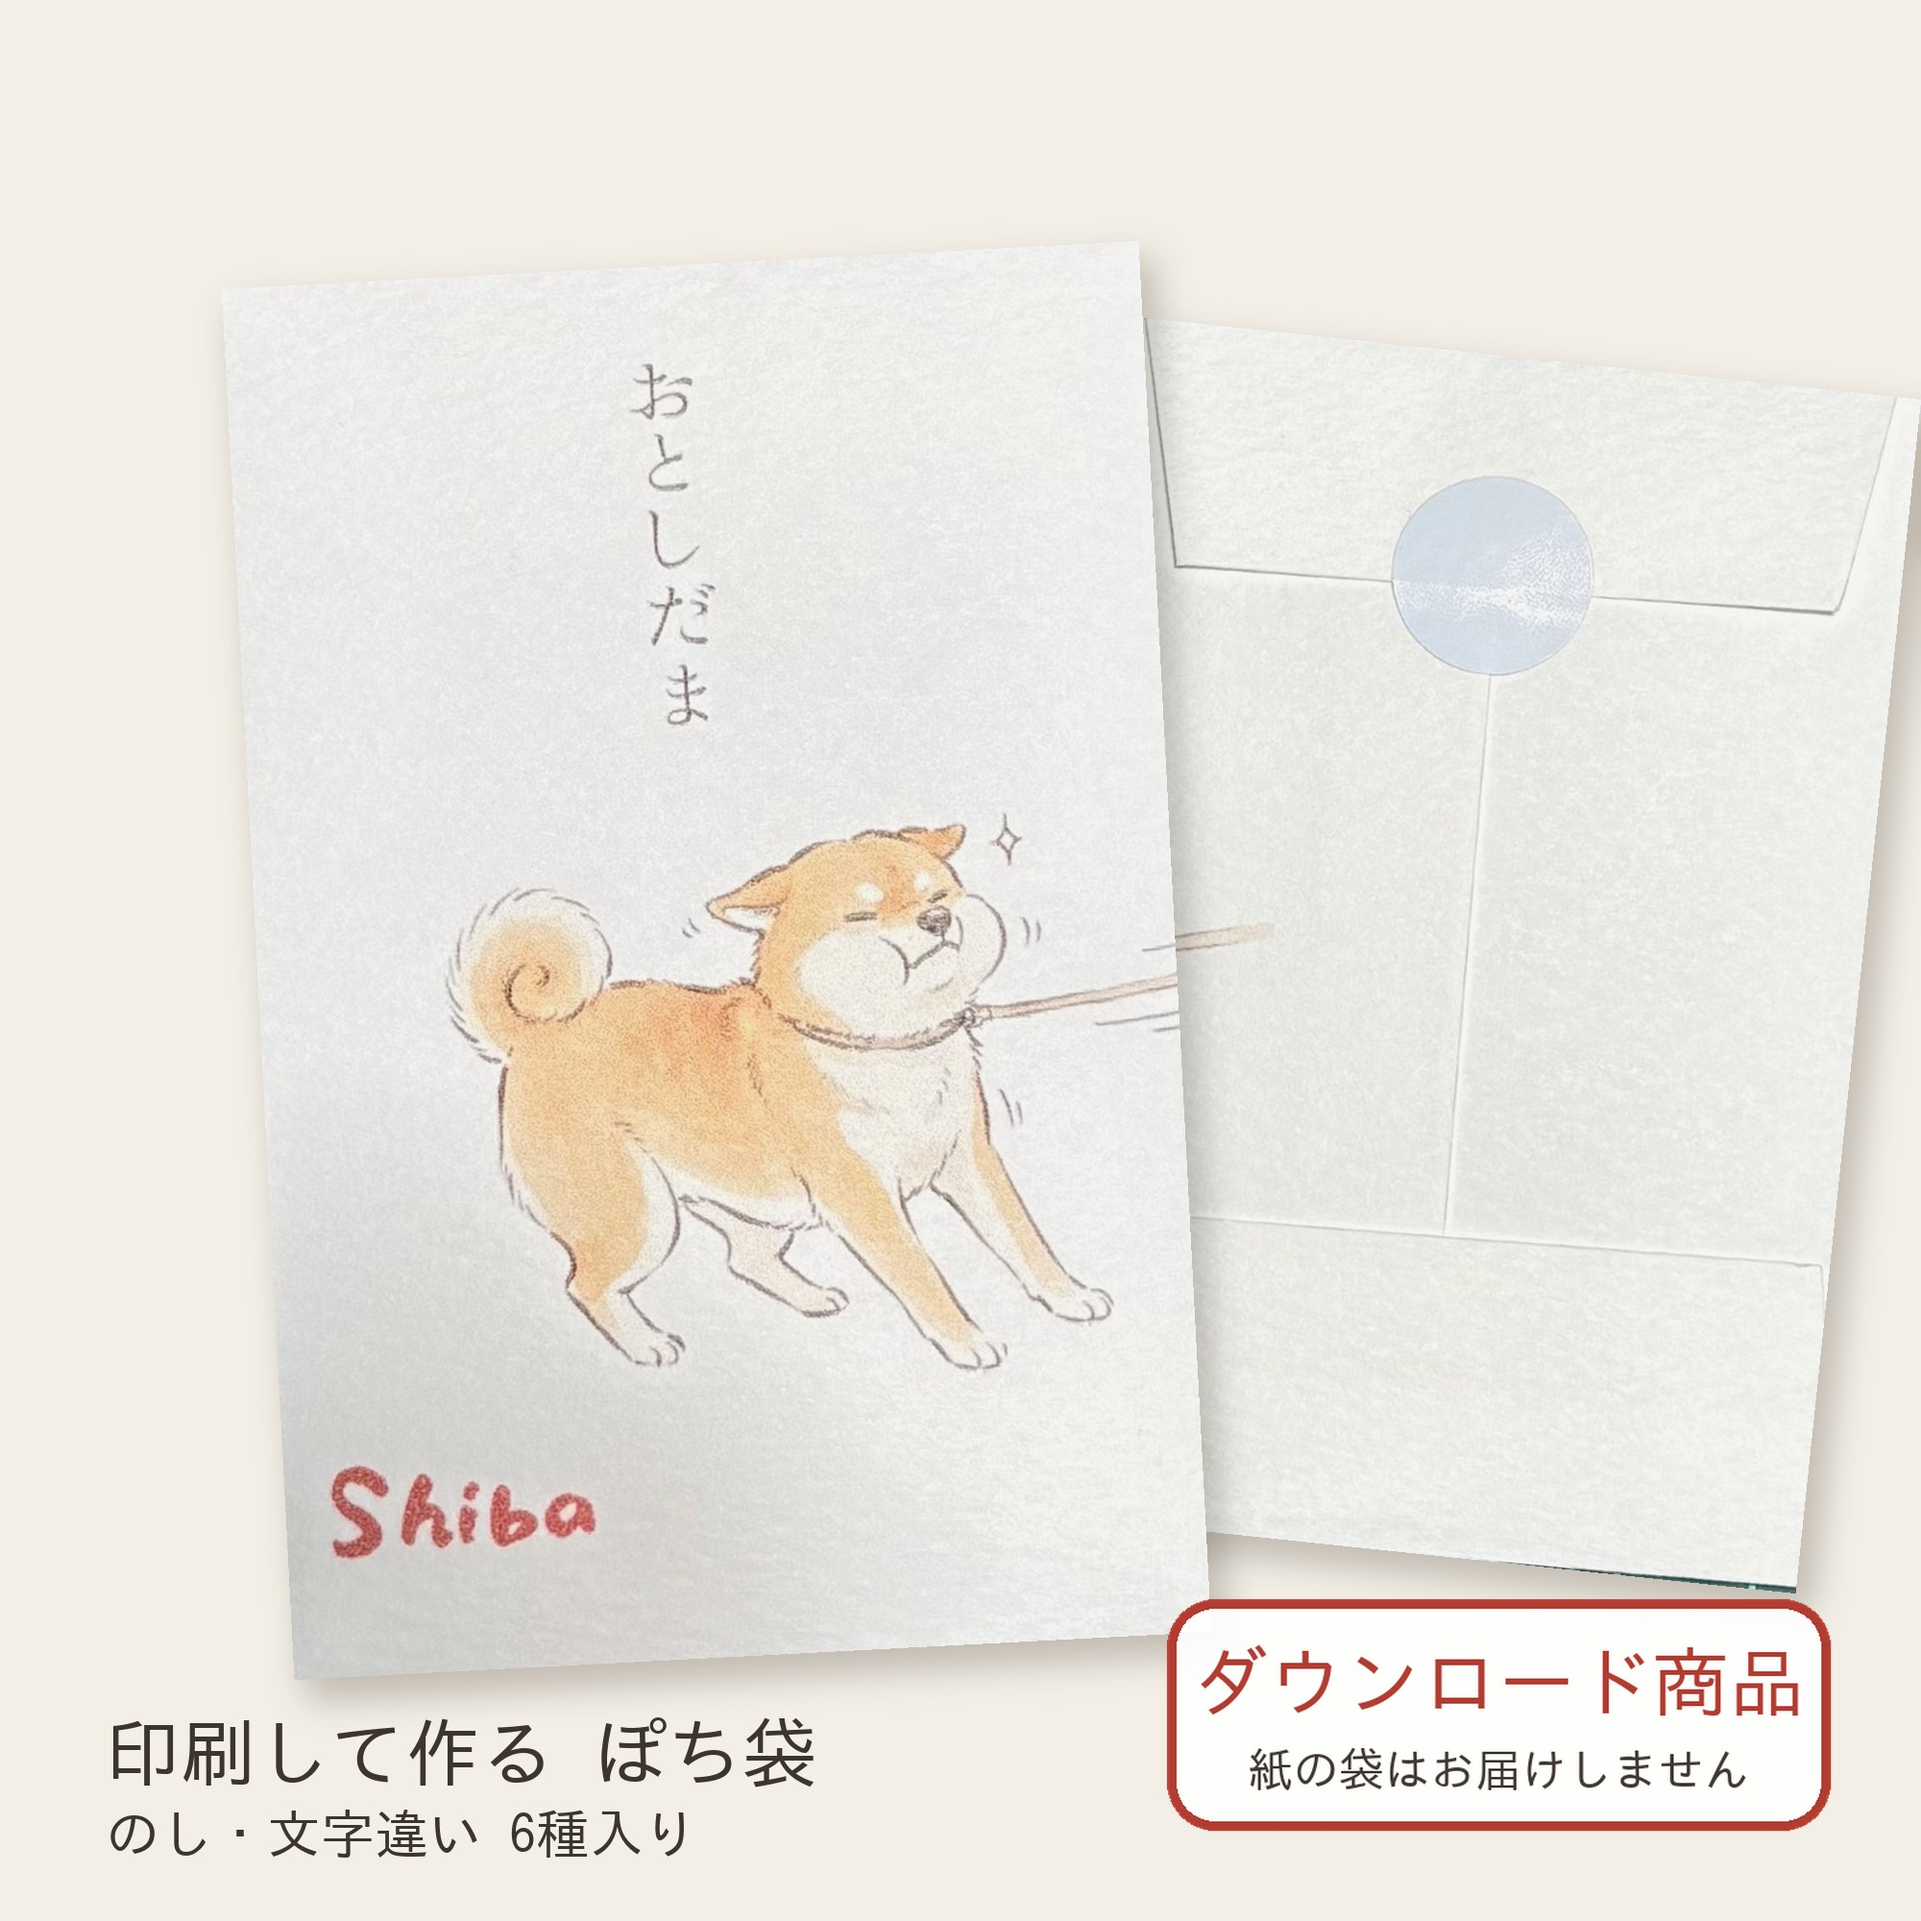
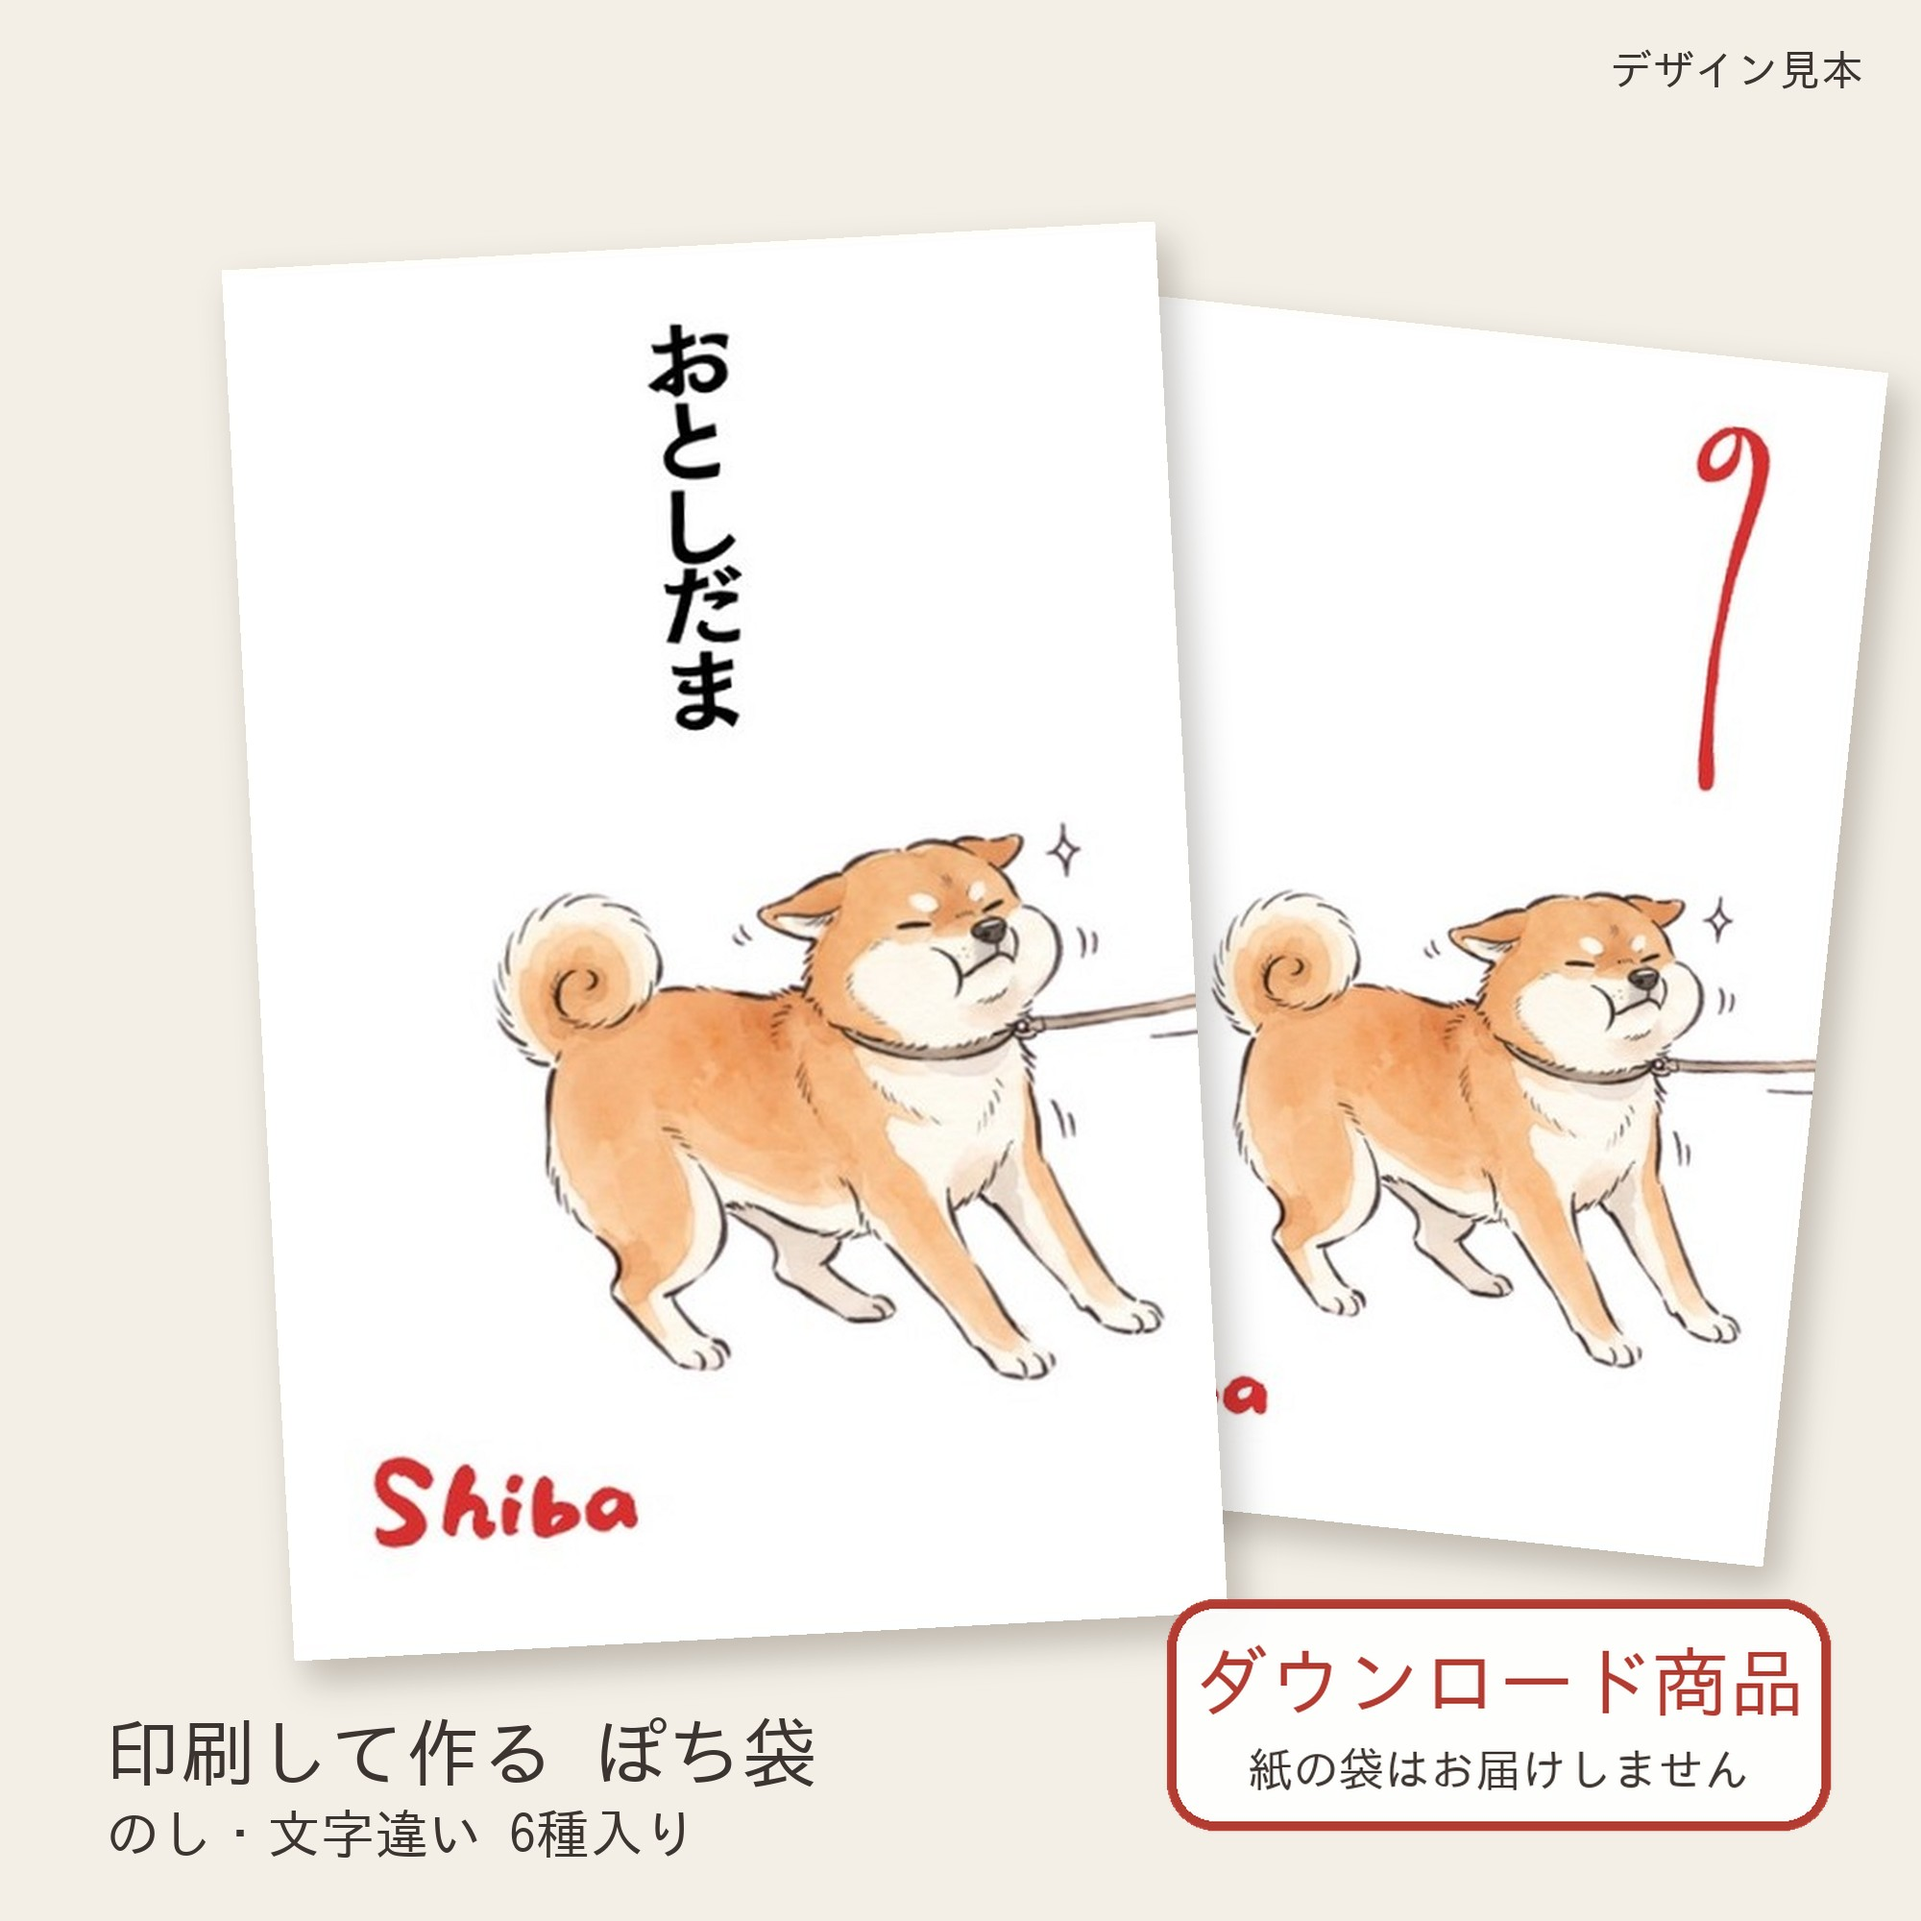
柴犬のデザイン見本(1枚目)を、ほかの種類と同じ形に作り直した
Claude-Session: https://claude.ai/code/session_017Q7oY74jx7snH393ipSzN7

diff --git a/shop/make_shiba_cover.py b/shop/make_shiba_cover.py
@@ -1,0 +1,45 @@
+"""柴犬の商品画像1枚目(デザイン見本)を、ほかの種類と同じ形で作り直す。
+もとのCanvaのスクリーンショットが手元にないので、6種類の画像(listing_shiba_3.jpg)から袋の表を切り出して使う。"""
+from pathlib import Path
+from PIL import Image, ImageDraw, ImageFilter, ImageFont
+
+ROOT = Path(__file__).parent
+BG, INK = (244, 239, 230), (60, 52, 48)
+FONT = "/usr/share/fonts/opentype/ipafont-gothic/ipag.ttf"
+S = 2000
+src = Image.open(ROOT / "listing_shiba_3.jpg").convert("RGB")
+# make_listing_variants.main の並べ方: w=468, h=695, 横のすき間110, 上290, 左はし188
+w, h = 468, 695
+def cell(i):
+    x = 188 + i * (w + 110)
+    return src.crop((x + 2, 290 + 2, x + w - 2, 290 + h - 2))
+noshi, otoshi = cell(0), cell(1)
+
+c = Image.new("RGBA", (S, S), BG + (255,))
+d = ImageDraw.Draw(c)
+f = lambda n: ImageFont.truetype(FONT, n)
+
+
+def card(im, hh, angle):
+    im = im.resize((int(im.width * hh / im.height), hh), Image.LANCZOS).convert("RGBA")
+    return im.rotate(angle, expand=True, resample=Image.BICUBIC)
+
+
+def put(im, x, y):
+    sh = Image.new("RGBA", c.size, (0, 0, 0, 0))
+    a = im.getchannel("A").point(lambda v: 70 if v else 0)
+    sh.paste((60, 45, 30, 255), (x + 14, y + 20), a)
+    c.alpha_composite(sh.filter(ImageFilter.GaussianBlur(18)))
+    c.alpha_composite(im, (x, y))
+
+
+put(card(noshi, 1250, -6), 1000, 300)
+put(card(otoshi, 1450, 3), 230, 230)
+badge = Image.open(ROOT.parent / "templates/listing/badge_download.png")
+badge = badge.resize((int(badge.width * 1.25), int(badge.height * 1.25)), Image.LANCZOS)
+c.alpha_composite(badge, (S - badge.width - 90, S - badge.height - 90))
+d.text((110, S - 215), "印刷して作る ぽち袋", font=f(78), fill=INK)
+d.text((110, S - 120), "のし・文字違い 6種入り", font=f(56), fill=INK)
+d.text((S - 60, 50), "デザイン見本", font=f(44), fill=INK, anchor="ra")
+c.convert("RGB").save(ROOT / "listing_shiba_1.jpg", quality=90)
+print("done")

diff --git a/docs/minne-listing-image-order.md b/docs/minne-listing-image-order.md
@@ -39,4 +39,4 @@
 
 ## 気づいたこと
 - 一覧の大きさでは、表書き「おとしだま」の文字がいちばん目立ち、犬・猫が小さく見える種類がある(マルプー、チワプー、黒猫、スコティッシュなど)。並べかえのあと、アクセス数が増えなければ、犬・猫を大きく見せる1枚目専用の画像を作る
-- 柴犬だけ1枚目の作りが古い形(ほかと見た目がちがう)
+- 柴犬の1枚目も、ほかと同じ形に作り直した(shop/make_shiba_cover.py。もとのスクリーンショットがないので、listing_shiba_3.jpg から袋を切り出した)
